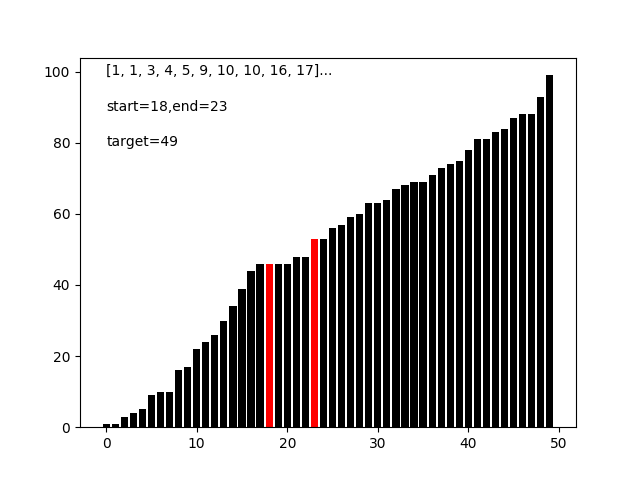
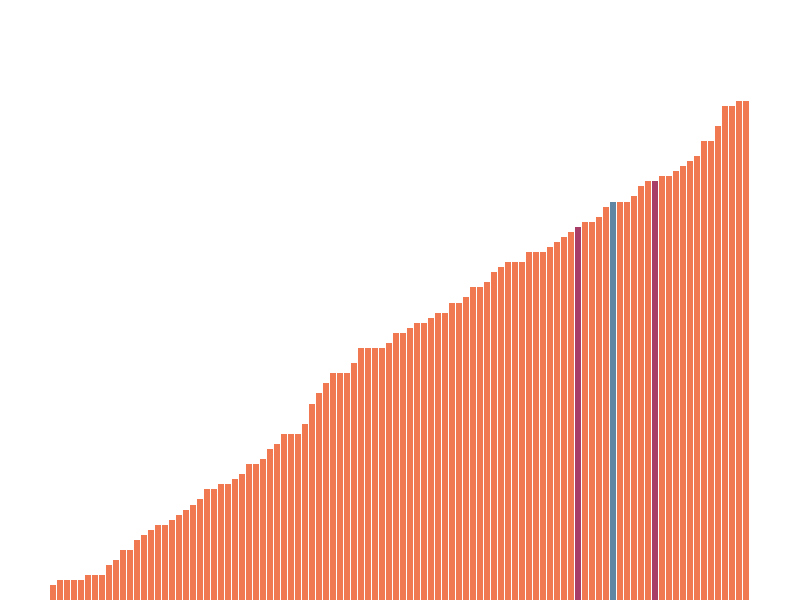
修改了可视化部分的代码，修改了配色，更加的有逼格

diff --git a/tools/visualization.py b/tools/visualization.py
@@ -2,6 +2,9 @@ import imageio
 import os
 from matplotlib import pyplot as plt
 from tools import file_tools
+import cv2
+import numpy as np
+
 
 def generate_gif(file_list:list, target_file, fps=1):
     '''
@@ -26,6 +29,14 @@ def generate_gif_dir(path:str, target_file, fps=1):
     generate_gif(file_list, target_file, fps=fps)
 
 
+def rgb2bgr(rgb):
+    '''
+    @brief  将rgb颜色转换成bgr
+    @return bgr
+    '''
+    return (rgb[2], rgb[1], rgb[0])
+    
+    
 def search_visualization_hook(data, start, mid, end, target, count):
     '''
     @brief  可视化相关hook函数，暂时未想到完全和API脱离的实现
@@ -36,25 +47,46 @@ def search_visualization_hook(data, start, mid, end, target, count):
     @param  target  目标值
     @param  count   用来统计当前算法调用了多少次
     '''
-    plt.figure()
-    color_list = []
+    h, w, v_border, w_border = 600, 800, 100, 5   #长宽边界,opencv左上角为0，0
+    gap_ratio = (2,1)   #设置gap的比例,数据的条目宽度和之间的间隔只比
+    
+    ratio = (h - v_border) / max(data)
+    item_w = ((w - w_border)/len(data))
+    item_width = int(item_w * gap_ratio[0]/sum(gap_ratio))
+    item_gap = int(item_w * gap_ratio[1]/sum(gap_ratio))
+
+    #border修正
+    w_border = int( (w - (item_width + item_gap) * len(data)) / 2)
+    
+    img = np.zeros((h, w, 3), dtype=np.uint8)
+    img = img + 255
+    
+    
     for i in range(len(data)):
-        if start == i:
-            color_list.append('r')
+        color = rgb2bgr((240,121,81))
+        liner = -1
+        cur_h = int(data[i] * ratio)
+        minxy = (w_border + i * (item_width + item_gap), h - cur_h)
+        maxxy = (w_border + i * (item_gap + item_width) + item_width, h)
+        if mid == i:
+            liner = -1
+            color = rgb2bgr((97,134,163))
+        elif start == i:
+            liner = -1
+            color = rgb2bgr((168,61,103))
         elif end == i:
-            color_list.append('r')
+            liner = -1
+            color = rgb2bgr((168,61,103))
         else:
-            color_list.append('black')
-
-    plt.text(0,max(data),str(data[:10]) + '...')
-    plt.text(0,max(data) - 10,"start=%d,end=%d" % (start, end))
-    plt.text(0,max(data) - 20,"target=%d" % target)
-
-    plt.bar(range(len(data)), data, color=color_list)
-
-    path = '/home/altas/altas/algorithm/algorithm-forth/img/binary_search'
+            color = rgb2bgr((240,121,81))
+            liner = -1
+        
+        cv2.rectangle(img, minxy, maxxy, color, liner)
+        
+    path = './img/binary_search'
     file_tools.makesure_path(path)
-    plt.savefig(os.path.join(path, str(count) + '.png'))
+    cv2.imwrite(os.path.join(path, str(count) + '.png'), img)
+
 
 def main():
     src = '/home/altas/Pictures/imgs'

diff --git a/main.py b/main.py
@@ -3,18 +3,17 @@ from src.search import binary_search
 import random
 import os
 
-def test_binary():
+def test_binary_search():
     for i in range(1):
-        l = list_tools.generate_list(50 , 1, 100, True)
-        print(l)
+        l = list_tools.generate_list(100 , 1, 100, True)
         value = random.randint(0, 100)
         print(value, binary_search.binary_search(l, 0, len(l) - 1, value, visualization.search_visualization_hook))
 
-    path = '/home/altas/altas/algorithm/algorithm-forth/img/'
+    path = './img/'
     visualization.generate_gif_dir(os.path.join(path, 'binary_search'), os.path.join(path, 'bin_search.gif'), fps=2)
 
 def main():
-    test_binary()
+    test_binary_search()
 
 if __name__ == '__main__':
     main()

diff --git a/src/basic/basic_func.py b/src/basic/basic_func.py
@@ -1,0 +1,2 @@
+def swap(rst, snd):
+    return snd, rst
